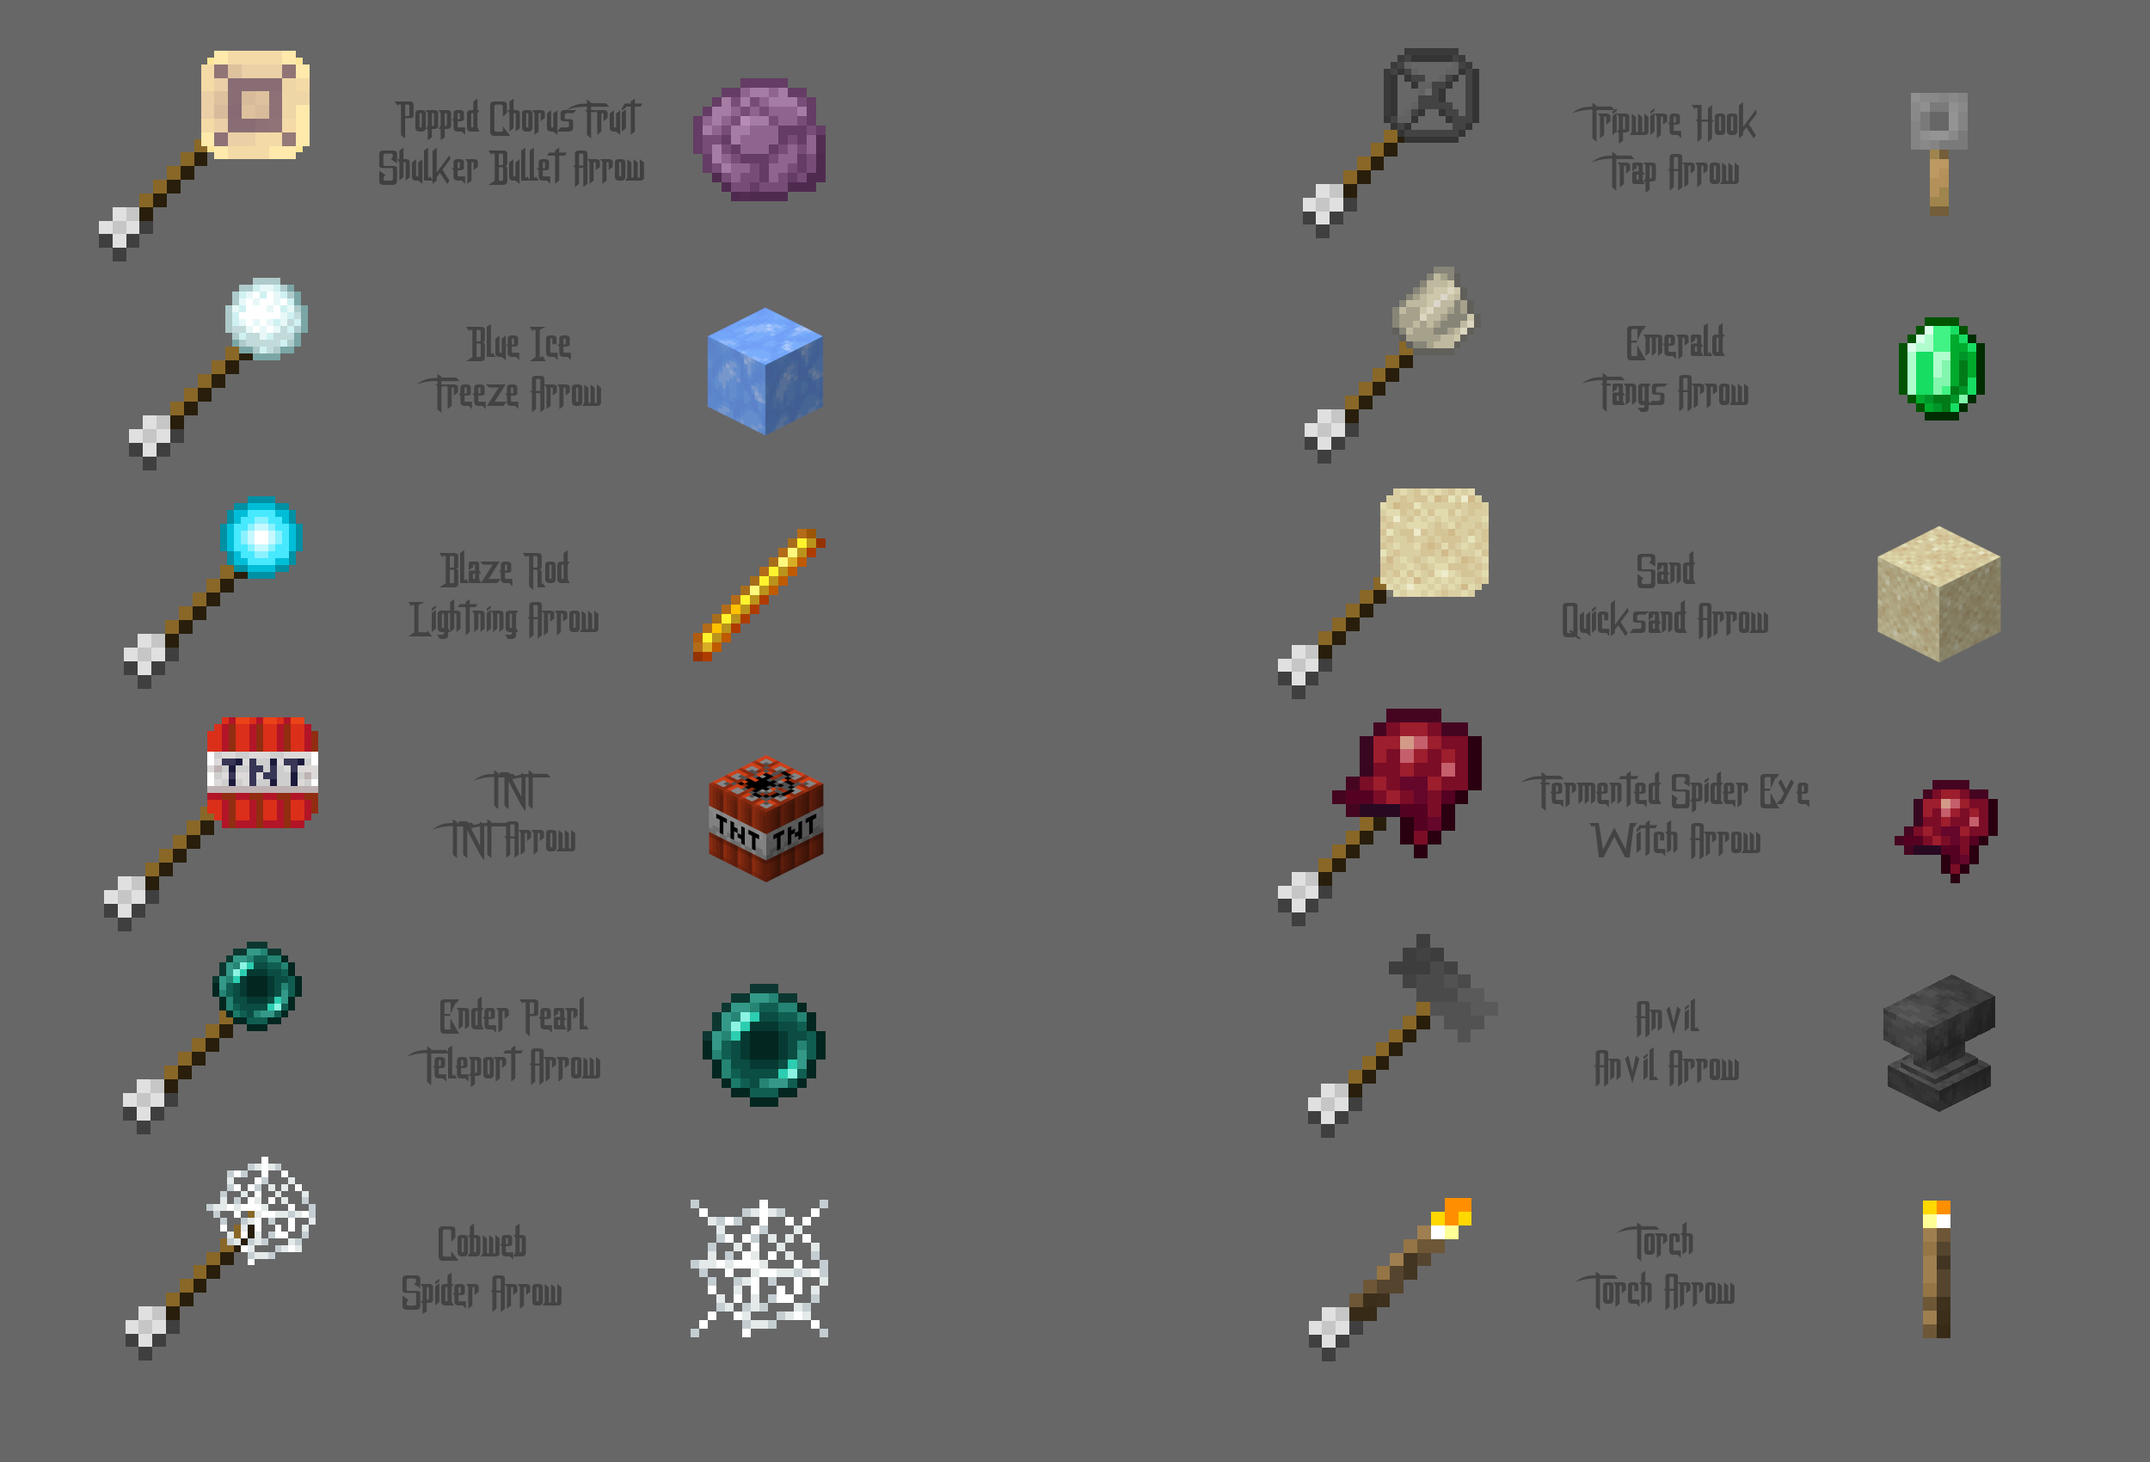
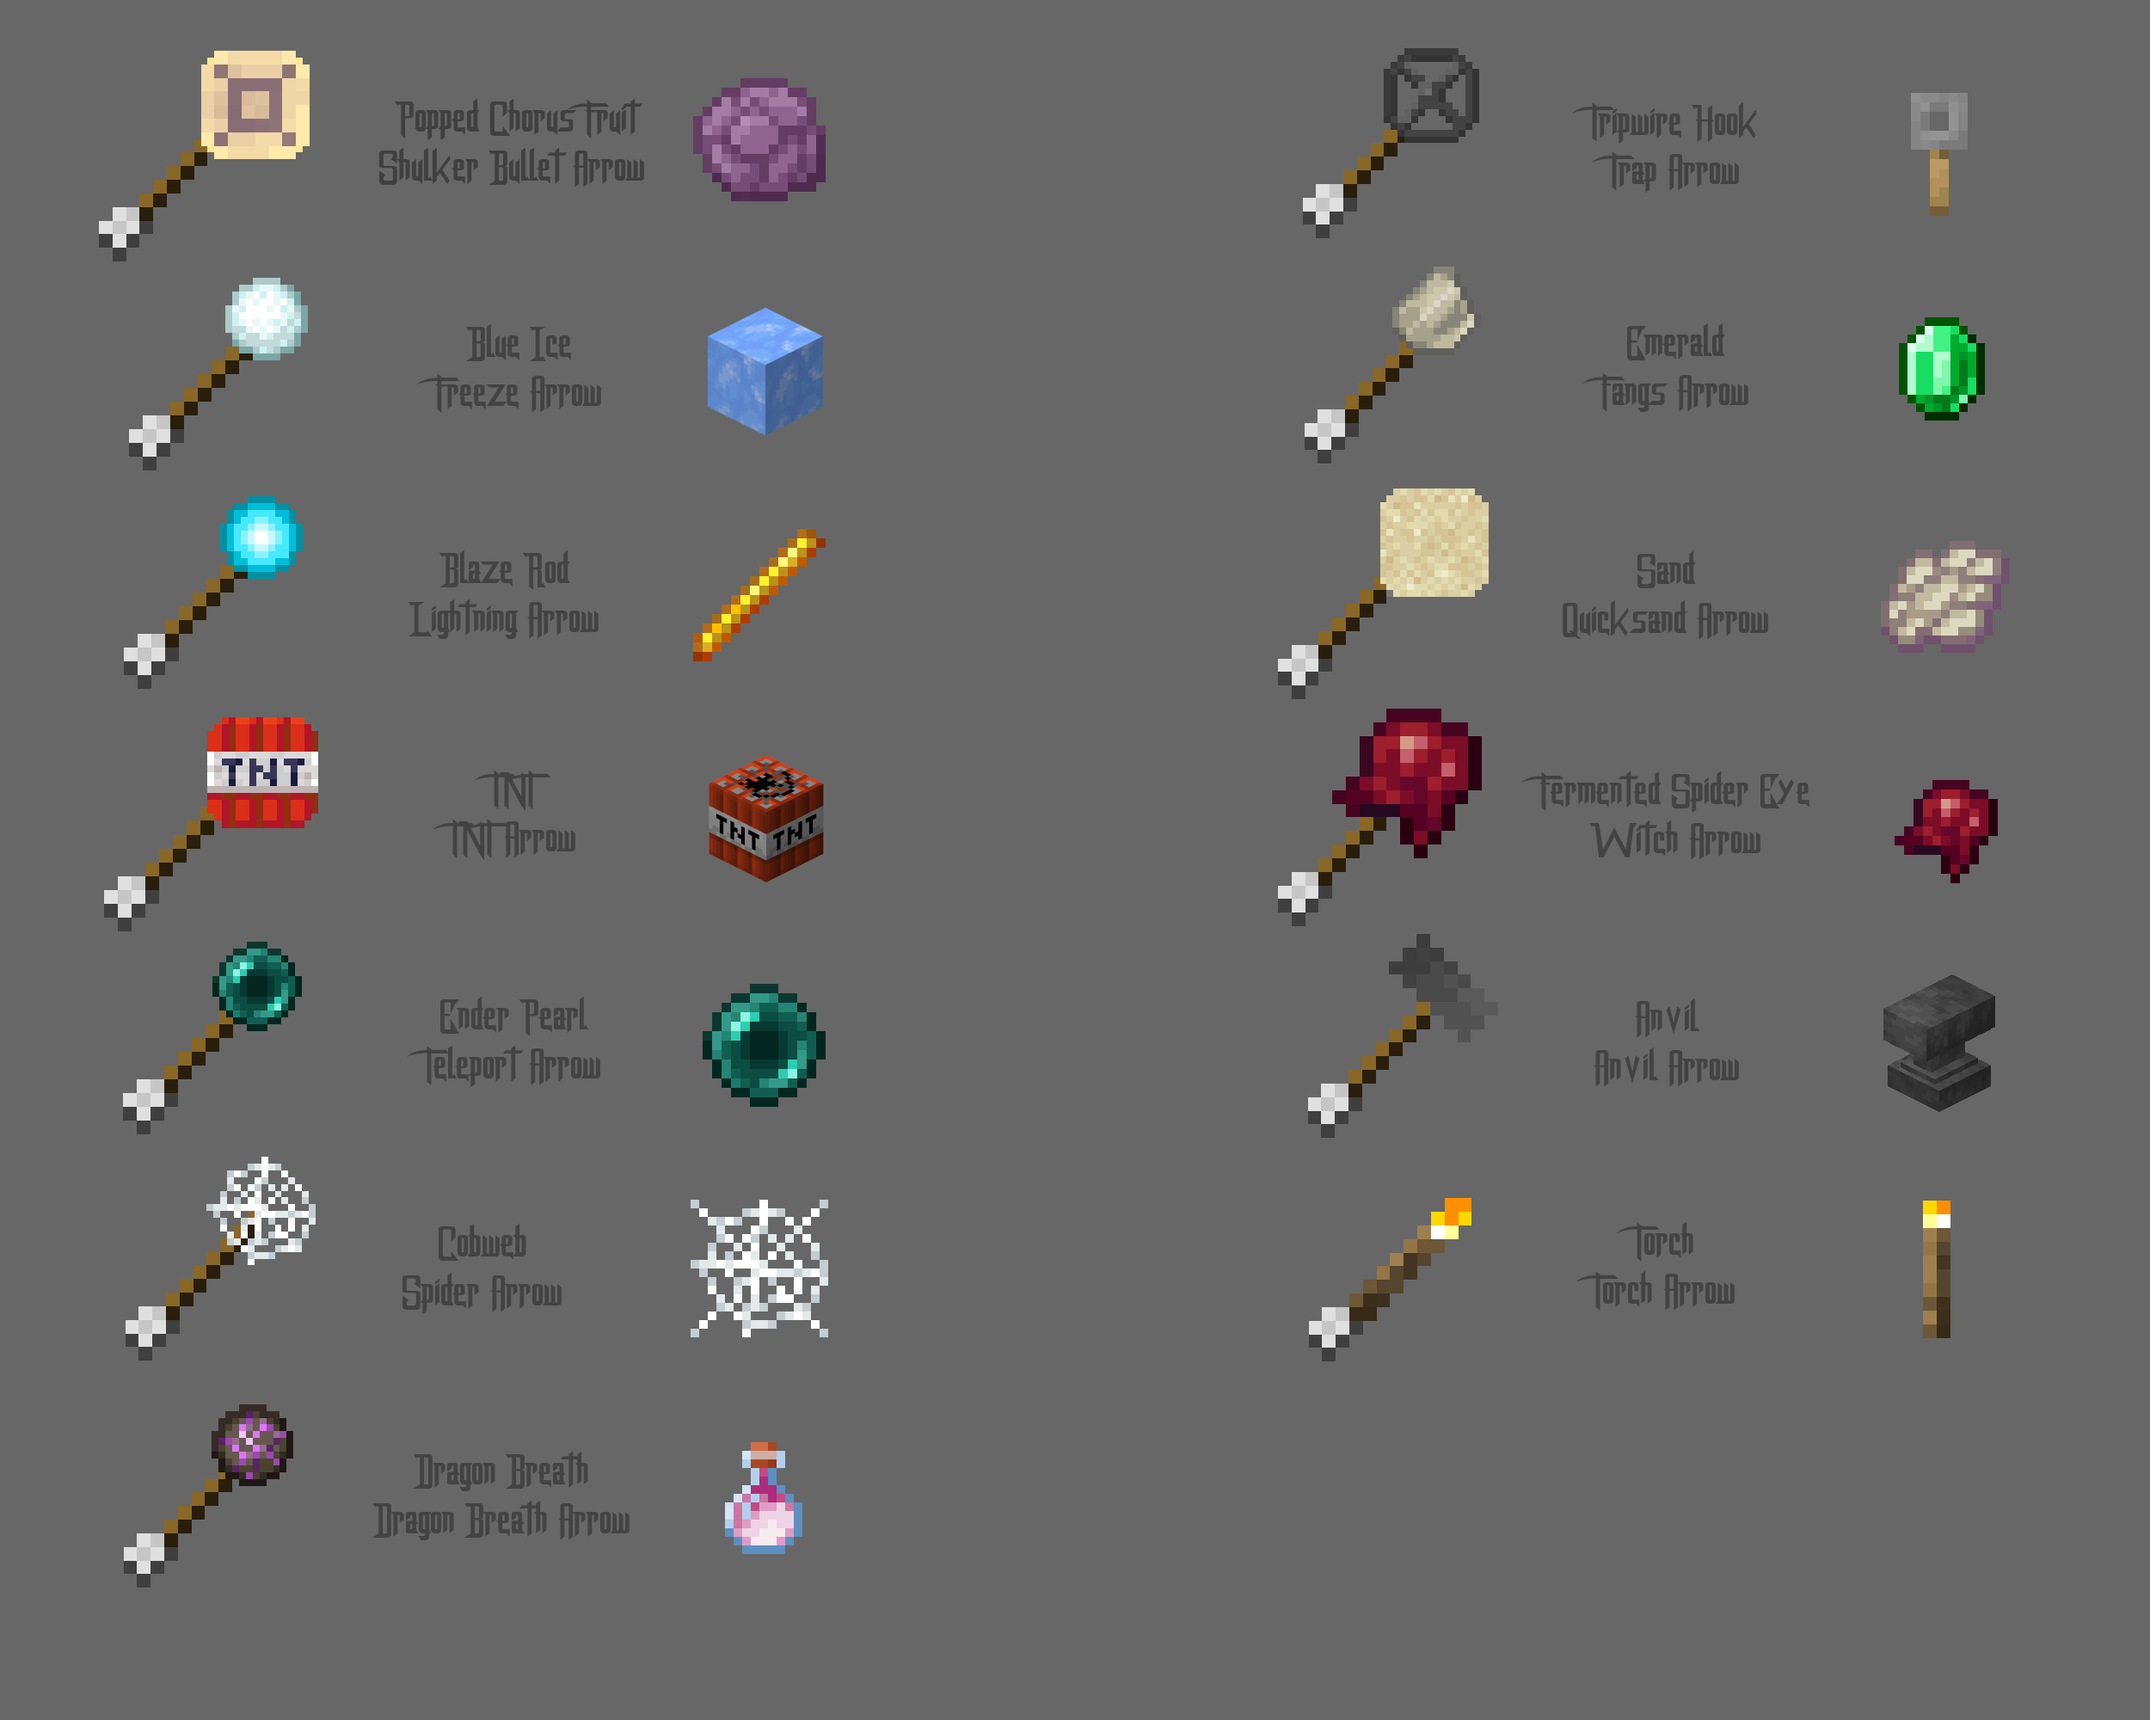
1.17 Update 3

diff --git a/datapacks/more_arrows.html b/datapacks/more_arrows.html
@@ -131,6 +131,11 @@
 				<td class="table_text">Torch<br>Torch Arrow</td>
 				<td class="table_img"><img src="../elements/pictures/datapacks/more_arrows/item/torch_arrow.png"></td>
 			</tr>
+			<tr onclick="bigImg('../elements/pictures/datapacks/more_arrows/gif/dragon_breath_arrow.gif')">
+				<td class="table_img"><img src="../elements/pictures/datapacks/more_arrows/arrow/dragon_breath_arrow.png"></td>
+				<td class="table_text">Dragon Breath<br>Dragon Breath Arrow</td>
+				<td class="table_img"><img src="../elements/pictures/datapacks/more_arrows/item/dragon_breath_arrow.png"></td>
+			</tr>
 		</table>
 
 	</div>
@@ -146,47 +151,51 @@
 		<table class="table">
 			<tr>
 				<td><p>Shulker Bullet Arrow:</p></td>
-				<td><p style="user-select: all;">shulker_bullet_arrow</p></td>
+				<td><p style="user-select: all;">#shulker_bullet</p></td>
 			</tr>
 			<tr>
 				<td><p>Trap Arrow:</p></td>
-				<td><p style="user-select: all;">trap_arrow</p></td>
+				<td><p style="user-select: all;">#trap</p></td>
 			</tr>
 			<tr>
 				<td><p>Freeze Arrow:</p></td>
-				<td><p style="user-select: all;">freeze_arrow</p></td>
+				<td><p style="user-select: all;">#freeze</p></td>
 			</tr>
 			<tr>
 				<td><p>Fangs Arrow:</p></td>
-				<td><p style="user-select: all;">fangs_arrow</p></td>
+				<td><p style="user-select: all;">#fangs</p></td>
 			</tr>
 			<tr>
 				<td><p>Lightning Arrow:</p></td>
-				<td><p style="user-select: all;">lightning_arrow</p></td>
+				<td><p style="user-select: all;">#lightning</p></td>
 			</tr>
 			<tr>
 				<td><p>TNT Arrow:</p></td>
-				<td><p style="user-select: all;">tnt_arrow</p></td>
+				<td><p style="user-select: all;">#tnt</p></td>
 			</tr>
 			<tr>
 				<td><p>Witch Arrow:</p></td>
-				<td><p style="user-select: all;">witch_arrow</p></td>
+				<td><p style="user-select: all;">#witch</p></td>
 			</tr>
 			<tr>
 				<td><p>Teleport Arrow:</p></td>
-				<td><p style="user-select: all;">tp_arrow</p></td>
+				<td><p style="user-select: all;">#tp</p></td>
 			</tr>
 			<tr>
 				<td><p>Anvil Arrow:</p></td>
-				<td><p style="user-select: all;">anvil_arrow</p></td>
+				<td><p style="user-select: all;">#anvil</p></td>
 			</tr>
 			<tr>
 				<td><p>Spider Arrow:</p></td>
-				<td><p style="user-select: all;">spider_arrow</p></td>
+				<td><p style="user-select: all;">#spider</p></td>
 			</tr>
 			<tr>
 				<td><p>Torch Arrow:</p></td>
-				<td><p style="user-select: all;">torch_arrow</p></td>
+				<td><p style="user-select: all;">#torch</p></td>
+			</tr>
+			<tr>
+				<td><p>Dragon Breath Arrow:</p></td>
+				<td><p style="user-select: all;">#dragon_breath</p></td>
 			</tr>
 		</table>
 	</div>
@@ -215,6 +224,11 @@
 
 
 	<table>
+		<tr>
+			<td class="version" id="newest"></td>
+			<td><a class="button disable_link" href="https://dl.orangedox.com/more-arrows/1QC5BQCVqb1yadxCnYruEq2AqWRCDdKR8?dl=1">Download Datapack</a></td>
+			<td><a class="button disable_link" href="https://drive.google.com/uc?export=download&id=1MNLT_R5zRmGo--FniHmG32Tp1WjinRQ6">Download Resource Pack</a></td>
+		</tr>
 		<tr>
 			<td class="version">1.16.2 - 1.16.5</td>
 			<td><a class="button disable_link" href="https://dl.orangedox.com/more-arrows/1Dem3IMb06FgSzI0y6yPzRpxamOCGOoNW?dl=1">Download Datapack</a></td>

diff --git a/datapacks/invisible_item_frame.html b/datapacks/invisible_item_frame.html
@@ -45,11 +45,28 @@
 <p>Adds a Recipe to craft an Invisible Item Frame to make some nice looking buildings.</p>
 <p>To see the Item Frame when nothing is in it, it is marked with gray particles. After you put something in the Item Frame, they disappear.</p>
 
-<h3 class="spoiler_title" title="Open for more Informations">Crafting</h3>
+<h3 class="spoiler_title" title="Open for more Informations">Crafting 1.17 +</h3>
+<div class="spoiler_show">
+	<div class="spoiler_content">
+		<div class="spoiler_flex">
+			<div class="spoiler_image">
+				<p><b>Invisible Item Frame Recipe</b></p>
+				<img src="../elements/pictures/datapacks/invisible_item_frame/recipe.png">
+			</div>
+			<div class="spoiler_image">
+				<p><b>Invisible Glow Item Frame Recipe</b></p>
+				<img src="../elements/pictures/datapacks/invisible_item_frame/recipe_glow.png">
+			</div>
+		</div>
+		<p>The Crafting Table will show a Structure Void as result, but you will get the correct Item after you take it out.</p>
+	</div>
+</div>
+
+<h3 class="spoiler_title" title="Open for more Informations">Crafting 1.16</h3>
 <div class="spoiler_show">
 	<div class="spoiler_content spoiler_flex">
 		<div class="spoiler_image">
-			<img src="../elements/pictures/datapacks/invisible_item_frame/recipe.png">
+			<img src="../elements/pictures/datapacks/invisible_item_frame/recipe_old.png">
 		</div>
 		<div class="spoiler_text">
 			<p>The Crafting Table will show a Structure Void as result, but you will get the correct Item after you take it out.</p>
@@ -71,6 +88,10 @@
 	<hr>
 
 	<table>
+		<tr>
+			<td class="version" id="newest"></td>
+			<td><a class="button disable_link" href="https://dl.orangedox.com/invisible-item-frame/1arGA7HBfxrOBPc79P1DI7dQXncr9csyC?dl=1">Download Datapack</a></td>
+		</tr>
 		<tr>
 			<td class="version">1.16.2 - 1.16.5</td>
 			<td><a class="button disable_link" href="https://dl.orangedox.com/invisible-item-frame/1z3w1jbpmPlHjj4Qnf2HBObE9cIDpF1Hh?dl=1">Download Datapack</a></td>

diff --git a/datapacks/key.html b/datapacks/key.html
@@ -91,6 +91,7 @@
 	<hr>
 
 	<p>It's highly recommended to use the Texture Pack, but not necessary.</p>
+	<p style="font-weight: bold; color: #A10000;">Warning: Unlock all your Chests before updating to 1.17</p>
 
 	<table>
 		<tr>

diff --git a/datapacks/murder.html b/datapacks/murder.html
@@ -34,7 +34,7 @@
 
 <header>
 	<h1>Murder</h1>
-	<p>1.13 +</p>
+	<p>1.13 - 1.16.5</p>
 </header>
 
 <p>This Datapack adds the Murder Game. The Game is modular so you can play it on any Map with a short and easy installation.</p>
